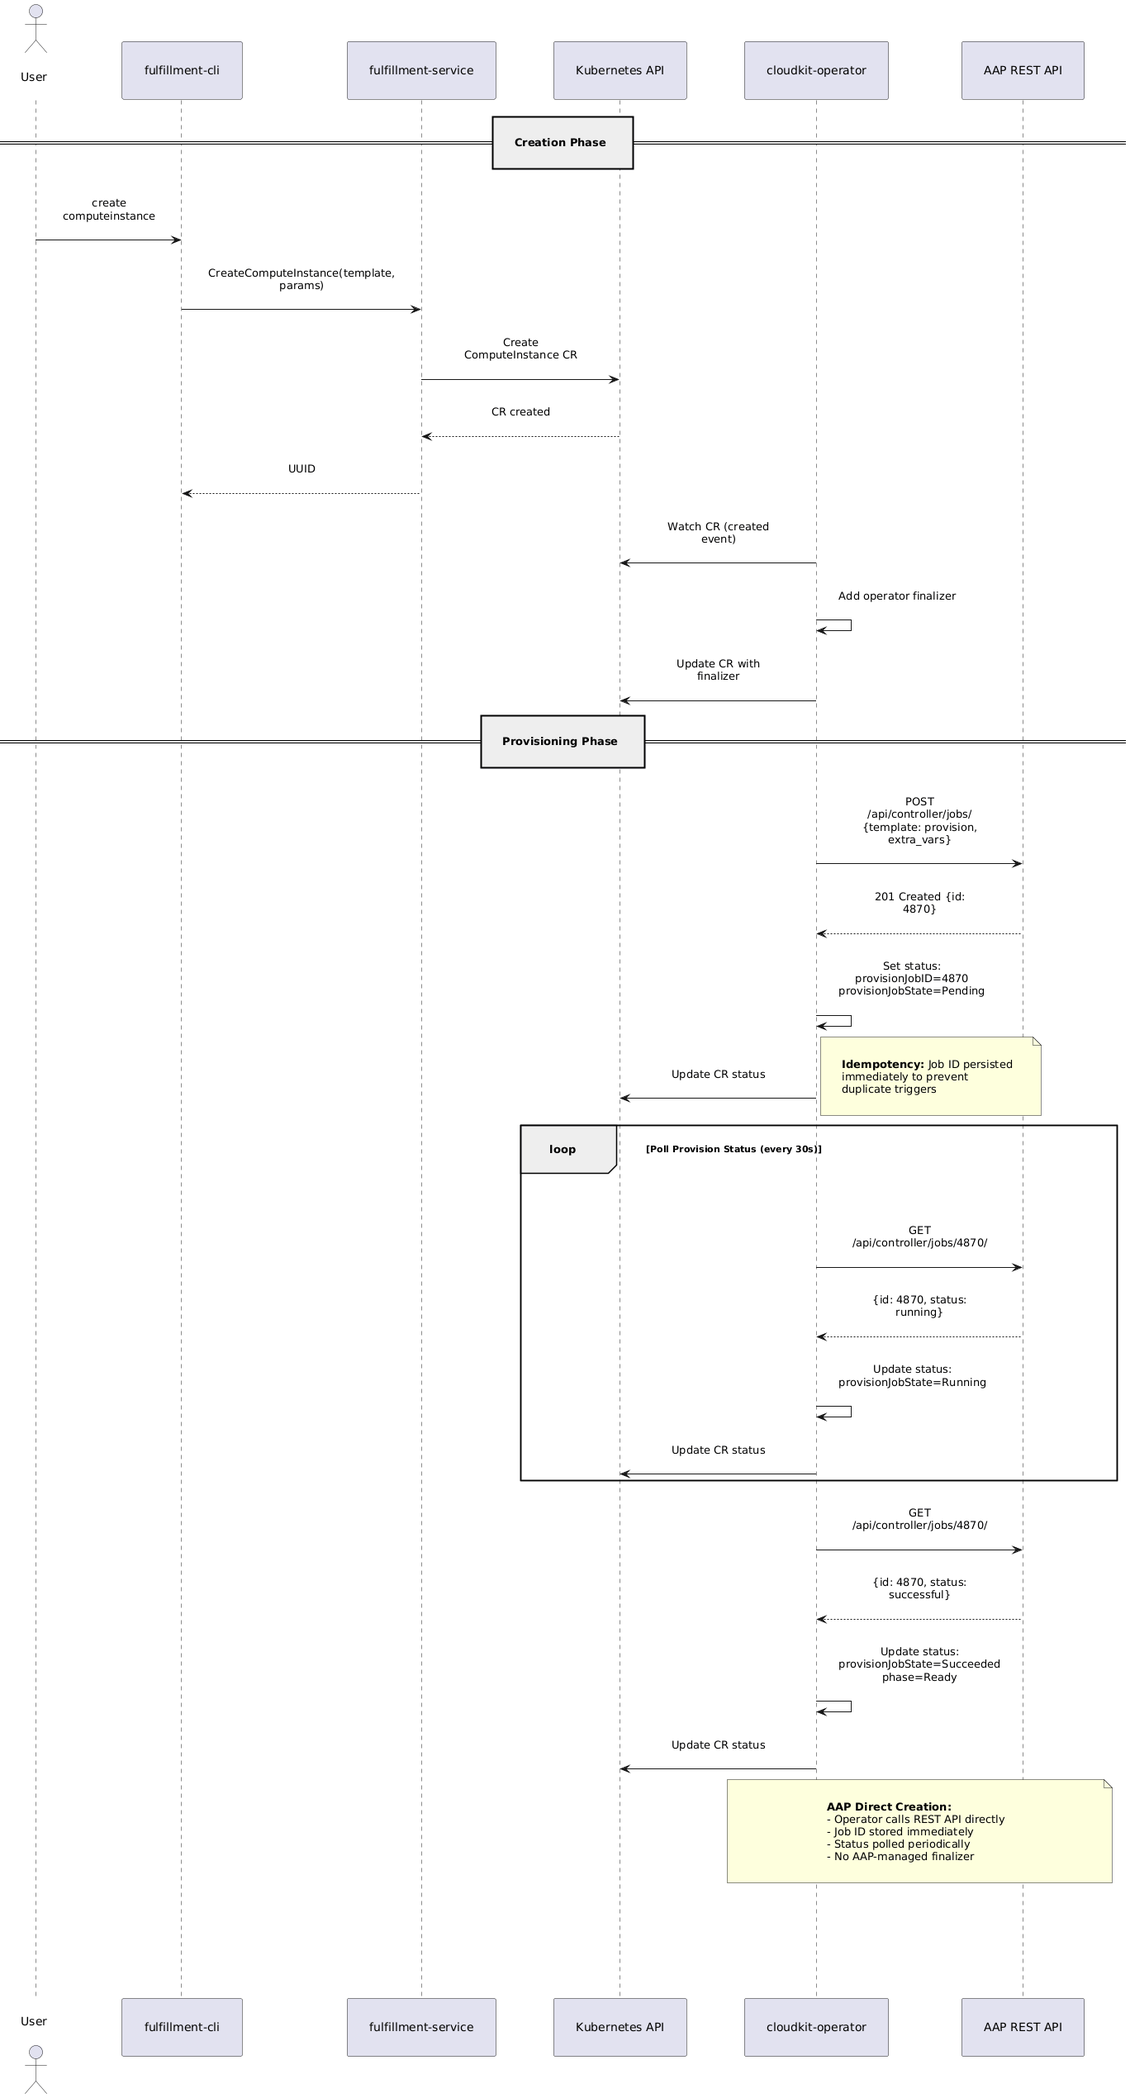
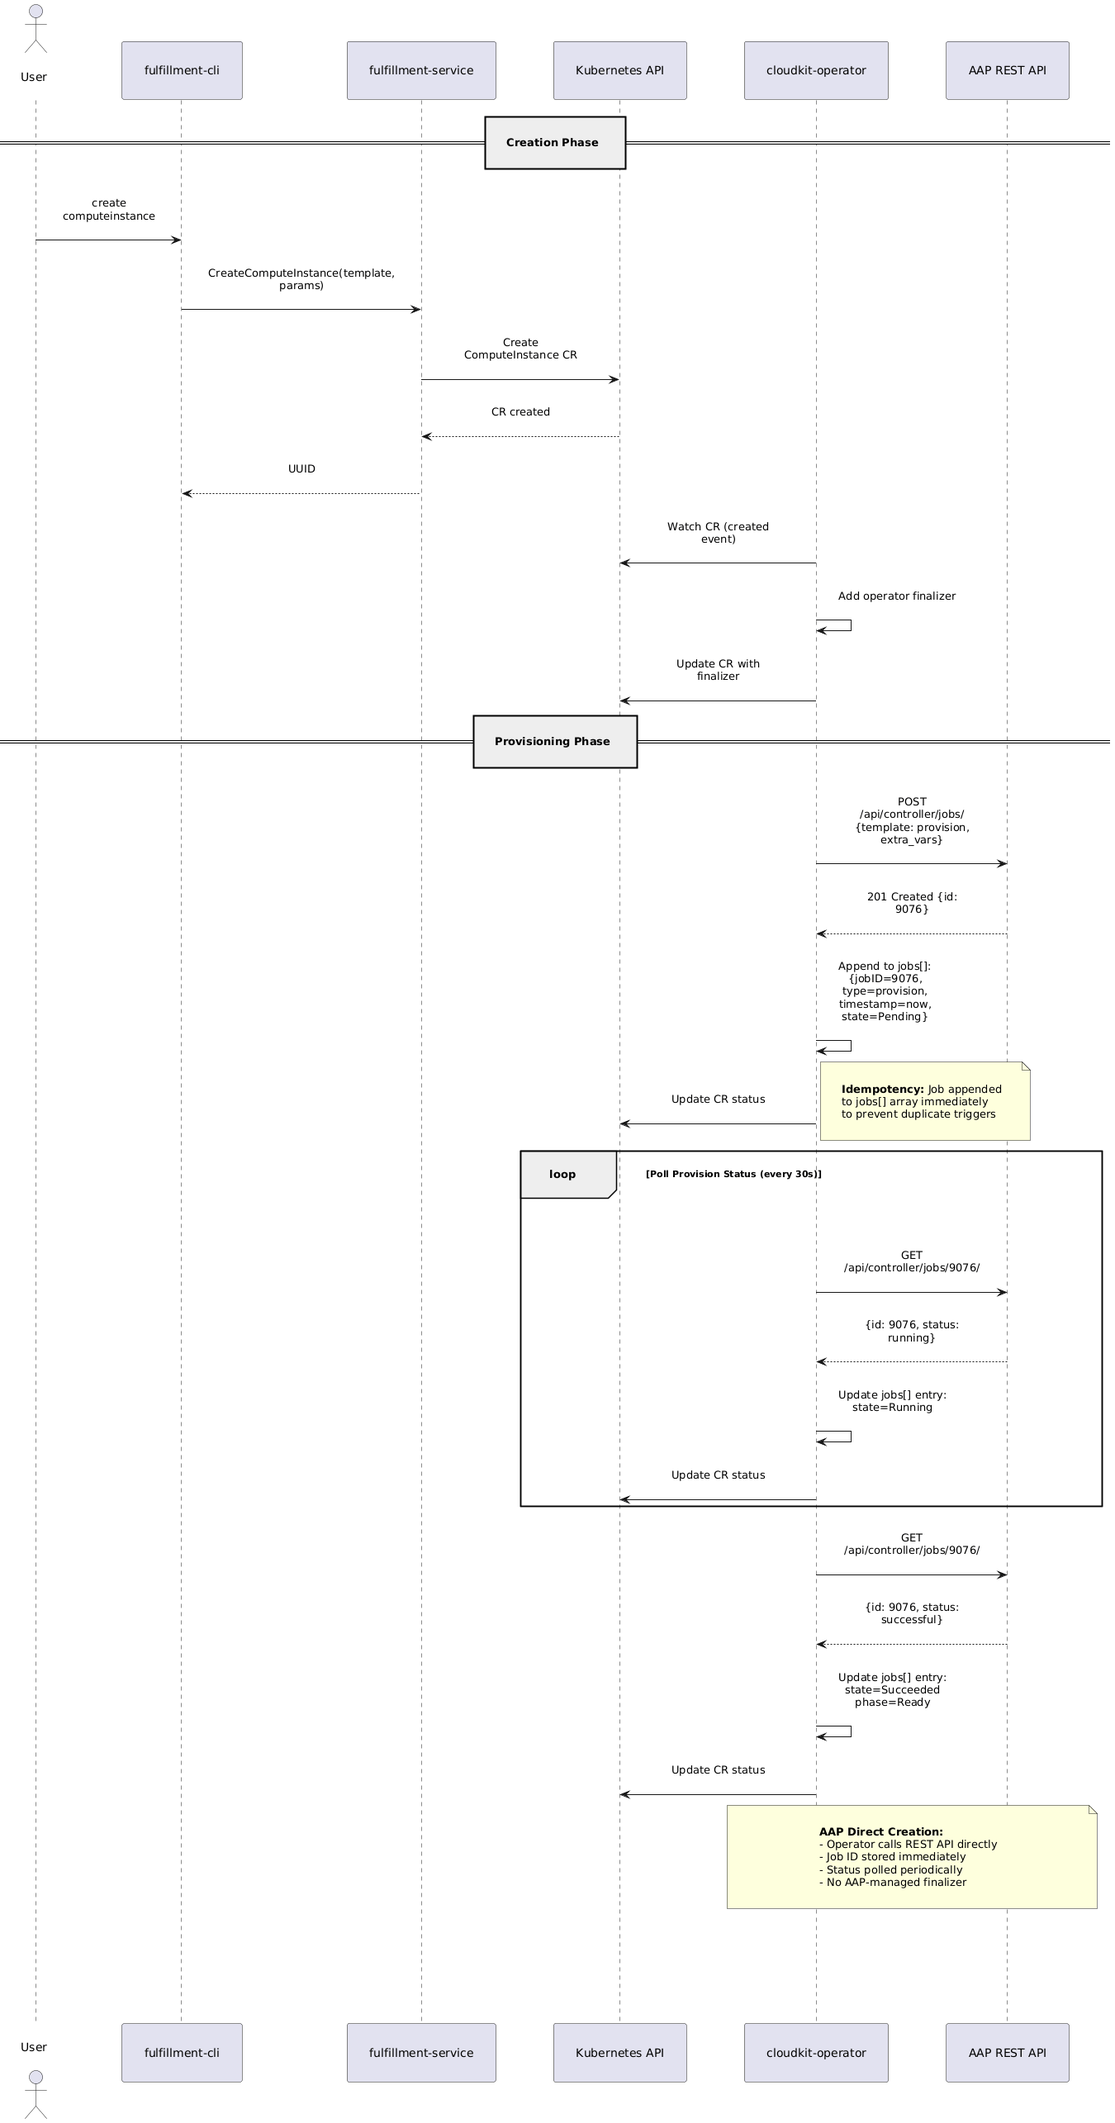
docs: Update AAP provisioning docs for jobs array migration
Update documentation to reflect the migration from separate provisionJob
and deprovisionJob fields to a unified jobs[] array pattern.

Changes:
- Updated status field documentation to describe jobs array structure
- Changed all kubectl command examples to use jq with jobs array filtering
- Updated monitoring section with jobs array query examples
- Updated troubleshooting commands to filter jobs by type and timestamp
- Modified sequence diagrams to show jobs array operations
- Regenerated PNG images from updated PlantUML diagrams
- Fixed generate_images.sh to support both docker and podman
- Updated design decisions section to explain jobs array benefits

Key documentation updates:
- Job query pattern: filter by type, sort by timestamp, get latest
- EDA job IDs now use "eda-webhook-N" format (not just "eda-webhook")
- AAP job IDs are numeric (e.g., "9076", "9079")
- Jobs array supports complete history and provider-agnostic lifecycles
- Maximum history configurable via CLOUDKIT_MAX_JOB_HISTORY (default: 10)

Relates to cloudkit-operator PR #102 (jobs array implementation)

Generated with [Claude Code](https://claude.com/claude-code)

diff --git a/architecture/aap-provisioning/README.md b/architecture/aap-provisioning/README.md
@@ -217,14 +217,16 @@ Job information is persisted in the ComputeInstance status to enable crash recov
 
 **Status Fields:**
 
-The ComputeInstance status tracks both provision and deprovision jobs separately:
-- **provisionJob** - Tracks the current or most recent provision job
-- **deprovisionJob** - Tracks the current or most recent deprovision job
+The ComputeInstance status tracks job history using a `jobs` array that preserves both provision and deprovision operations:
+- **jobs** - Array of job statuses, ordered chronologically with latest operations at the end
+- Maximum history: Configurable via `CLOUDKIT_MAX_JOB_HISTORY` environment variable (default: 10 jobs)
 
-Each job status includes:
-- **id** - Job identifier (AAP job ID or "eda-webhook" for EDA provider)
-- **state** - Current job state (Pending, Running, Succeeded, Failed, etc.)
-- **message** - Human-readable status message
+Each job status entry includes:
+- **jobID** - Job identifier (AAP numeric job ID like "9076", or EDA job ID like "eda-webhook-1")
+- **type** - Job type: "provision" or "deprovision"
+- **timestamp** - When the job was created (RFC3339 format, UTC)
+- **state** - Current job state (Pending, Waiting, Running, Succeeded, Failed, Canceled, Unknown)
+- **message** - Human-readable status message (optional)
 - **blockDeletionOnFailure** - Whether to prevent CR deletion if job fails (AAP: true, EDA: false)
 
 **Persistence Strategy:**
@@ -556,14 +558,14 @@ spec:
   disk: 40
 EOF
 
-# Watch job status in CR
-kubectl get computeinstance test-ci-aap -o jsonpath='{.status.provisionJob}' | jq
+# Watch provision job status in CR
+kubectl get computeinstance test-ci-aap -o json | jq '.status.jobs // [] | map(select(.type == "provision")) | sort_by(.timestamp) | reverse | first'
 
 # Alternatively, use watch
-watch -n 5 'kubectl get computeinstance test-ci-aap -o jsonpath="{.status.provisionJob}" | jq'
+watch -n 5 'kubectl get computeinstance test-ci-aap -o json | jq ".status.jobs // [] | map(select(.type == \"provision\")) | sort_by(.timestamp) | reverse | first"'
 
 # Check AAP job directly
-AAP_JOB_ID=$(kubectl get computeinstance test-ci-aap -o jsonpath='{.status.provisionJob.id}')
+AAP_JOB_ID=$(kubectl get computeinstance test-ci-aap -o json | jq -r '.status.jobs // [] | map(select(.type == "provision")) | sort_by(.timestamp) | reverse | first | .jobID')
 curl -H "Authorization: Bearer $AAP_TOKEN" \
   "$AAP_URL/jobs/$AAP_JOB_ID/" | jq '.status, .failed, .finished'
 
@@ -638,12 +640,12 @@ Migrating from EDA to AAP Direct provides better feedback and error visibility.
    # Create test resource
    kubectl apply -f test-compute-instance.yaml
 
-   # Verify job ID in status
-   kubectl get computeinstance test-ci -o jsonpath='{.status.provisionJob.id}'
-   # Should show AAP job ID (e.g., "4870"), not "eda-webhook"
+   # Verify job ID in status (get latest provision job)
+   kubectl get computeinstance test-ci -o json | jq -r '.status.jobs // [] | map(select(.type == "provision")) | sort_by(.timestamp) | reverse | first | .jobID'
+   # Should show AAP job ID (e.g., "9076"), not "eda-webhook-1"
 
    # Watch job progress
-   kubectl get computeinstance test-ci -o jsonpath='{.status.provisionJob}' | jq
+   kubectl get computeinstance test-ci -o json | jq '.status.jobs // [] | map(select(.type == "provision")) | sort_by(.timestamp) | reverse | first'
    ```
 
 6. **Monitor Existing ComputeInstances:**
@@ -654,8 +656,8 @@ Migrating from EDA to AAP Direct provides better feedback and error visibility.
    # List ComputeInstances in non-Ready state
    kubectl get computeinstance -A --field-selector status.phase!=Ready
 
-   # Check their provision job status
-   kubectl get computeinstance <name> -o jsonpath='{.status.provisionJob}'
+   # Check their latest provision job status
+   kubectl get computeinstance <name> -o json | jq '.status.jobs // [] | map(select(.type == "provision")) | sort_by(.timestamp) | reverse | first'
    ```
 
 **Rollback:**
@@ -692,14 +694,17 @@ Both providers populate the `status` section of ComputeInstance CRs with job inf
 status:
   phase: Progressing | Ready | Failed | Deleting
 
-  provisionJob:
-    id: "4870"  # AAP job ID or "eda-webhook"
-    state: Running | Succeeded | Failed | Canceled | Unknown
-    message: "Job running"
+  jobs:
+  - jobID: "9076"  # AAP job ID (numeric) or EDA job ID ("eda-webhook-1")
+    type: provision
+    timestamp: "2026-02-12T09:55:26Z"
+    state: Succeeded
+    message: "Provision job succeeded"
     blockDeletionOnFailure: true  # AAP: true, EDA: false
 
-  deprovisionJob:
-    id: "4925"
+  - jobID: "9079"  # Subsequent AAP deprovision job
+    type: deprovision
+    timestamp: "2026-02-12T10:12:15Z"
     state: Running
     message: "Deprovision job triggered"
     blockDeletionOnFailure: true
@@ -711,17 +716,20 @@ status:
 **Querying Status:**
 
 ```bash
-# Get full status
-kubectl get computeinstance <name> -o yaml
+# Get full jobs array
+kubectl get computeinstance <name> -o json | jq '.status.jobs'
 
-# Get provision job status
-kubectl get computeinstance <name> -o jsonpath='{.status.provisionJob}' | jq
+# Get latest provision job
+kubectl get computeinstance <name> -o json | jq '.status.jobs // [] | map(select(.type == "provision")) | sort_by(.timestamp) | reverse | first'
 
-# Get job state only
-kubectl get computeinstance <name> -o jsonpath='{.status.provisionJob.state}'
+# Get provision job state only
+kubectl get computeinstance <name> -o json | jq -r '.status.jobs // [] | map(select(.type == "provision")) | sort_by(.timestamp) | reverse | first | .state'
 
-# Get deprovision job status
-kubectl get computeinstance <name> -o jsonpath='{.status.deprovisionJob}' | jq
+# Get latest deprovision job
+kubectl get computeinstance <name> -o json | jq '.status.jobs // [] | map(select(.type == "deprovision")) | sort_by(.timestamp) | reverse | first'
+
+# Get all jobs by type
+kubectl get computeinstance <name> -o json | jq '.status.jobs // [] | map(select(.type == "provision"))'
 ```
 
 #### Key Log Messages (AAP Direct)
@@ -800,13 +808,13 @@ spec:
 EOF
 
 # 2. Monitor provision job status
-watch -n 5 'kubectl get computeinstance test-ci-success -o jsonpath="{.status.provisionJob}" | jq'
+watch -n 5 'kubectl get computeinstance test-ci-success -o json | jq ".status.jobs // [] | map(select(.type == \"provision\")) | sort_by(.timestamp) | reverse | first"'
 
 # 3. Verify state transitions: Pending → Running → Succeeded
 # Expected states over time:
-#   {id: "4870", state: "Pending", message: "Job queued"}
-#   {id: "4870", state: "Running", message: "Job running"}
-#   {id: "4870", state: "Succeeded", message: "Job completed successfully"}
+#   {jobID: "9076", type: "provision", timestamp: "...", state: "Pending", message: "Job queued"}
+#   {jobID: "9076", type: "provision", timestamp: "...", state: "Running", message: "Job running"}
+#   {jobID: "9076", type: "provision", timestamp: "...", state: "Succeeded", message: "Job completed successfully"}
 
 # 4. Verify CR phase: Progressing → Ready
 kubectl get computeinstance test-ci-success -o jsonpath='{.status.phase}'
@@ -816,7 +824,7 @@ kubectl get computeinstance test-ci-success -o jsonpath='{.status.phase}'
 kubectl delete computeinstance test-ci-success
 
 # 6. Monitor deprovision job
-watch -n 5 'kubectl get computeinstance test-ci-success -o jsonpath="{.status.deprovisionJob}" | jq'
+watch -n 5 'kubectl get computeinstance test-ci-success -o json | jq ".status.jobs // [] | map(select(.type == \"deprovision\")) | sort_by(.timestamp) | reverse | first"'
 
 # 7. Verify deprovision state transitions: Pending → Running → Succeeded
 # Expected:
@@ -859,13 +867,13 @@ EOF
 kubectl delete computeinstance test-ci-cancel &
 
 # 3. Observe provision job cancellation
-kubectl get computeinstance test-ci-cancel -o jsonpath='{.status.provisionJob.state}'
+kubectl get computeinstance test-ci-cancel -o json | jq -r '.status.jobs // [] | map(select(.type == "provision")) | sort_by(.timestamp) | reverse | first | .state'
 # Expected progression:
 #   Running → Canceled
 
 # 4. Observe deprovision triggered after cancellation
-kubectl get computeinstance test-ci-cancel -o jsonpath='{.status.deprovisionJob.id}'
-# Expected: AAP job ID (e.g., "4926")
+kubectl get computeinstance test-ci-cancel -o json | jq -r '.status.jobs // [] | map(select(.type == "deprovision")) | sort_by(.timestamp) | reverse | first | .jobID'
+# Expected: AAP job ID (e.g., "9104")
 
 # 5. Check operator logs for cancellation
 kubectl logs -n cloudkit-system deployment/cloudkit-operator-controller-manager | grep "cancel"
@@ -906,10 +914,12 @@ spec:
 EOF
 
 # 2. Observe job failure
-kubectl get computeinstance test-ci-fail -o jsonpath='{.status.provisionJob}' | jq
+kubectl get computeinstance test-ci-fail -o json | jq '.status.jobs // [] | map(select(.type == "provision")) | sort_by(.timestamp) | reverse | first'
 # Expected:
 # {
-#   "id": "4871",
+#   "jobID": "9077",
+#   "type": "provision",
+#   "timestamp": "2026-02-12T10:00:00Z",
 #   "state": "Failed",
 #   "message": "AAP job failed: [error details from playbook]",
 #   "blockDeletionOnFailure": true
@@ -920,7 +930,7 @@ kubectl get computeinstance test-ci-fail -o jsonpath='{.status.phase}'
 # Expected: Failed
 
 # 4. Review error details in AAP UI or via API
-AAP_JOB_ID=$(kubectl get computeinstance test-ci-fail -o jsonpath='{.status.provisionJob.id}')
+AAP_JOB_ID=$(kubectl get computeinstance test-ci-fail -o json | jq -r '.status.jobs // [] | map(select(.type == "provision")) | sort_by(.timestamp) | reverse | first | .jobID')
 curl -H "Authorization: Bearer $AAP_TOKEN" \
   "$AAP_URL/jobs/$AAP_JOB_ID/" | jq '.result_traceback'
 
@@ -928,7 +938,7 @@ curl -H "Authorization: Bearer $AAP_TOKEN" \
 kubectl delete computeinstance test-ci-fail
 
 # 6. Verify deprovision is triggered (cleanup attempt)
-kubectl get computeinstance test-ci-fail -o jsonpath='{.status.deprovisionJob}' | jq
+kubectl get computeinstance test-ci-fail -o json | jq '.status.jobs // [] | map(select(.type == "deprovision")) | sort_by(.timestamp) | reverse | first'
 ```
 
 **Expected Behavior:**
@@ -964,11 +974,11 @@ spec:
 EOF
 
 # 3. Check job ID
-kubectl get computeinstance test-ci-eda -o jsonpath='{.status.provisionJob.id}'
-# Expected: "eda-webhook"
+kubectl get computeinstance test-ci-eda -o json | jq -r '.status.jobs // [] | map(select(.type == "provision")) | sort_by(.timestamp) | reverse | first | .jobID'
+# Expected: "eda-webhook-1"
 
 # 4. Check job state
-kubectl get computeinstance test-ci-eda -o jsonpath='{.status.provisionJob.state}'
+kubectl get computeinstance test-ci-eda -o json | jq -r '.status.jobs // [] | map(select(.type == "provision")) | sort_by(.timestamp) | reverse | first | .state'
 # Expected: "Unknown"
 
 # 5. Wait for AAP to update annotation
@@ -981,7 +991,7 @@ kubectl get computeinstance test-ci-eda -o jsonpath='{.status.phase}'
 ```
 
 **Expected Behavior:**
-- Job ID is "eda-webhook"
+- Job ID is "eda-webhook-1" (or eda-webhook-2 for subsequent jobs)
 - Job state is "Unknown"
 - CR becomes Ready when annotation is updated by AAP
 - Finalizer is managed by AAP playbook
@@ -1084,11 +1094,11 @@ Integration tests use fake Kubernetes clients and mock AAP clients to verify end
 # View full ComputeInstance status
 kubectl get computeinstance <name> -o yaml
 
-# Check provision job status
-kubectl get computeinstance <name> -o jsonpath='{.status.provisionJob}' | jq
+# Check latest provision job status
+kubectl get computeinstance <name> -o json | jq '.status.jobs // [] | map(select(.type == "provision")) | sort_by(.timestamp) | reverse | first'
 
-# Check deprovision job status
-kubectl get computeinstance <name> -o jsonpath='{.status.deprovisionJob}' | jq
+# Check latest deprovision job status
+kubectl get computeinstance <name> -o json | jq '.status.jobs // [] | map(select(.type == "deprovision")) | sort_by(.timestamp) | reverse | first'
 
 # Check CR phase
 kubectl get computeinstance <name> -o jsonpath='{.status.phase}'
@@ -1136,7 +1146,7 @@ curl -H "Authorization: Bearer $AAP_TOKEN" "$AAP_URL/job_templates/" | jq '.resu
 curl -H "Authorization: Bearer $AAP_TOKEN" "$AAP_URL/workflow_job_templates/" | jq '.results[] | {name, id}'
 
 # Query specific job
-AAP_JOB_ID=$(kubectl get computeinstance <name> -o jsonpath='{.status.provisionJob.id}')
+AAP_JOB_ID=$(kubectl get computeinstance <name> -o json | jq -r '.status.jobs // [] | map(select(.type == "provision")) | sort_by(.timestamp) | reverse | first | .jobID')
 curl -H "Authorization: Bearer $AAP_TOKEN" "$AAP_URL/jobs/$AAP_JOB_ID/" | jq
 
 # Check job status only
@@ -1187,11 +1197,11 @@ exit
 **Diagnosis:**
 
 ```bash
-# Check provision job state
-kubectl get computeinstance <name> -o jsonpath='{.status.provisionJob}' | jq
+# Check latest provision job state
+kubectl get computeinstance <name> -o json | jq '.status.jobs // [] | map(select(.type == "provision")) | sort_by(.timestamp) | reverse | first'
 
 # If job ID exists, check AAP directly
-AAP_JOB_ID=$(kubectl get computeinstance <name> -o jsonpath='{.status.provisionJob.id}')
+AAP_JOB_ID=$(kubectl get computeinstance <name> -o json | jq -r '.status.jobs // [] | map(select(.type == "provision")) | sort_by(.timestamp) | reverse | first | .jobID')
 curl -H "Authorization: Bearer $AAP_TOKEN" "$AAP_URL/jobs/$AAP_JOB_ID/" | jq '.status'
 ```
 
@@ -1205,7 +1215,7 @@ curl -H "Authorization: Bearer $AAP_TOKEN" "$AAP_URL/jobs/$AAP_JOB_ID/" | jq '.s
 
 # If AAP job failed:
 # 1. Check error details in AAP
-AAP_JOB_ID=$(kubectl get computeinstance <name> -o jsonpath='{.status.provisionJob.id}')
+AAP_JOB_ID=$(kubectl get computeinstance <name> -o json | jq -r '.status.jobs // [] | map(select(.type == "provision")) | sort_by(.timestamp) | reverse | first | .jobID')
 curl -H "Authorization: Bearer $AAP_TOKEN" "$AAP_URL/jobs/$AAP_JOB_ID/" | jq '.result_traceback'
 
 # 2. Fix underlying issue (quota, network, etc.)
@@ -1226,11 +1236,11 @@ kubectl delete computeinstance <name>
 **Diagnosis:**
 
 ```bash
-# Check deprovision job status
-kubectl get computeinstance <name> -o jsonpath='{.status.deprovisionJob}' | jq
+# Check latest deprovision job status
+kubectl get computeinstance <name> -o json | jq '.status.jobs // [] | map(select(.type == "deprovision")) | sort_by(.timestamp) | reverse | first'
 
 # Check AAP job for error details
-AAP_JOB_ID=$(kubectl get computeinstance <name> -o jsonpath='{.status.deprovisionJob.id}')
+AAP_JOB_ID=$(kubectl get computeinstance <name> -o json | jq -r '.status.jobs // [] | map(select(.type == "deprovision")) | sort_by(.timestamp) | reverse | first | .jobID')
 curl -H "Authorization: Bearer $AAP_TOKEN" "$AAP_URL/jobs/$AAP_JOB_ID/" | jq '.result_traceback'
 ```
 
@@ -1267,8 +1277,8 @@ kubectl get computeinstance <name>
 **Diagnosis:**
 
 ```bash
-# Check CR status history
-kubectl get computeinstance <name> -o yaml | grep -A 10 provisionJob
+# Check CR jobs array history
+kubectl get computeinstance <name> -o json | jq '.status.jobs'
 
 # List AAP jobs for this resource
 curl -H "Authorization: Bearer $AAP_TOKEN" "$AAP_URL/jobs/?name__contains=<name>" | jq '.results[] | {id, status, created}'
@@ -1289,9 +1299,9 @@ for job_id in <duplicate-job-ids>; do
   curl -X POST -H "Authorization: Bearer $AAP_TOKEN" "$AAP_URL/jobs/$job_id/cancel/"
 done
 
-# 3. Update CR status with correct job ID
+# 3. Update CR status with correct job ID (if needed)
 kubectl edit computeinstance <name>
-# Manually update status.provisionJob.id to correct value
+# Manually update status.jobs array to remove duplicate job entries or correct jobID values
 ```
 
 **Prevention:**
@@ -1309,8 +1319,8 @@ kubectl edit computeinstance <name>
 **Diagnosis:**
 
 ```bash
-# Check job ID in CR status
-AAP_JOB_ID=$(kubectl get computeinstance <name> -o jsonpath='{.status.provisionJob.id}')
+# Check latest provision job ID in CR status
+AAP_JOB_ID=$(kubectl get computeinstance <name> -o json | jq -r '.status.jobs // [] | map(select(.type == "provision")) | sort_by(.timestamp) | reverse | first | .jobID')
 
 # Check job status in AAP
 curl -H "Authorization: Bearer $AAP_TOKEN" "$AAP_URL/jobs/$AAP_JOB_ID/" | jq '.status'
@@ -1406,28 +1416,33 @@ EDA Provider sets `BlockDeletionOnFailure=false` because:
 - AAP playbook manages finalizer removal
 - Blocking would prevent CR deletion even on success (no status feedback)
 
-### 8.4 Why Separate ProvisionJob and DeprovisionJob Status?
+### 8.4 Why Jobs Array Instead of Separate Fields?
 
-The CR status tracks provision and deprovision jobs separately instead of a single "currentJob" field.
+The CR status uses a `jobs` array instead of separate `provisionJob` and `deprovisionJob` fields.
 
 **Benefits:**
 
-1. **Crash Recovery:** Both statuses persist in CR, controller can resume after restart
-2. **Historical Context:** Can see provision job details even during deprovision
-3. **Different Policies:** AAP blocks on deprovision failure, EDA doesn't
-4. **State Clarity:** Explicit lifecycle phases (provisioning vs deprovisioning)
-5. **Debugging:** Full job history visible in CR status for troubleshooting
+1. **Complete History:** Preserves full lifecycle audit trail (multiple provisions/deprovisions)
+2. **Crash Recovery:** All job statuses persist in CR, controller can resume from any state
+3. **Type Discrimination:** Jobs are filtered by `type` field ("provision" or "deprovision")
+4. **Chronological Ordering:** Timestamp-based sorting ensures correct job selection
+5. **Extensibility:** Easy to add new job types (e.g., "restart", "upgrade") in the future
+6. **Kubernetes Pattern:** Follows standard K8s pattern (similar to Pod conditions, Events)
+7. **Provider Agnostic:** Works seamlessly with mixed provider lifecycles (EDA provision + AAP deprovision)
 
 **Example:**
 
 ```yaml
 status:
-  provisionJob:
-    id: "4870"
+  jobs:
+  - jobID: "9076"
+    type: provision
+    timestamp: "2026-02-12T09:55:26Z"
     state: Succeeded
     message: "Provision completed successfully"
-  deprovisionJob:
-    id: "4925"
+  - jobID: "9079"
+    type: deprovision
+    timestamp: "2026-02-12T10:12:15Z"
     state: Running
     message: "Deprovisioning in progress"
 ```
@@ -1465,11 +1480,13 @@ AAP API provides progress information that could be surfaced in CR status:
 
 ```yaml
 status:
-  provisionJob:
-    id: "4870"
+  jobs:
+  - jobID: "9076"
+    type: provision
+    timestamp: "2026-02-12T09:55:26Z"
     state: Running
-    progress: 65  # Percentage complete (0-100)
-    currentStage: "Configuring network interfaces"
+    progress: 65  # Percentage complete (0-100) - Future enhancement
+    currentStage: "Configuring network interfaces"  # Future enhancement
 ```
 
 **Implementation:**
